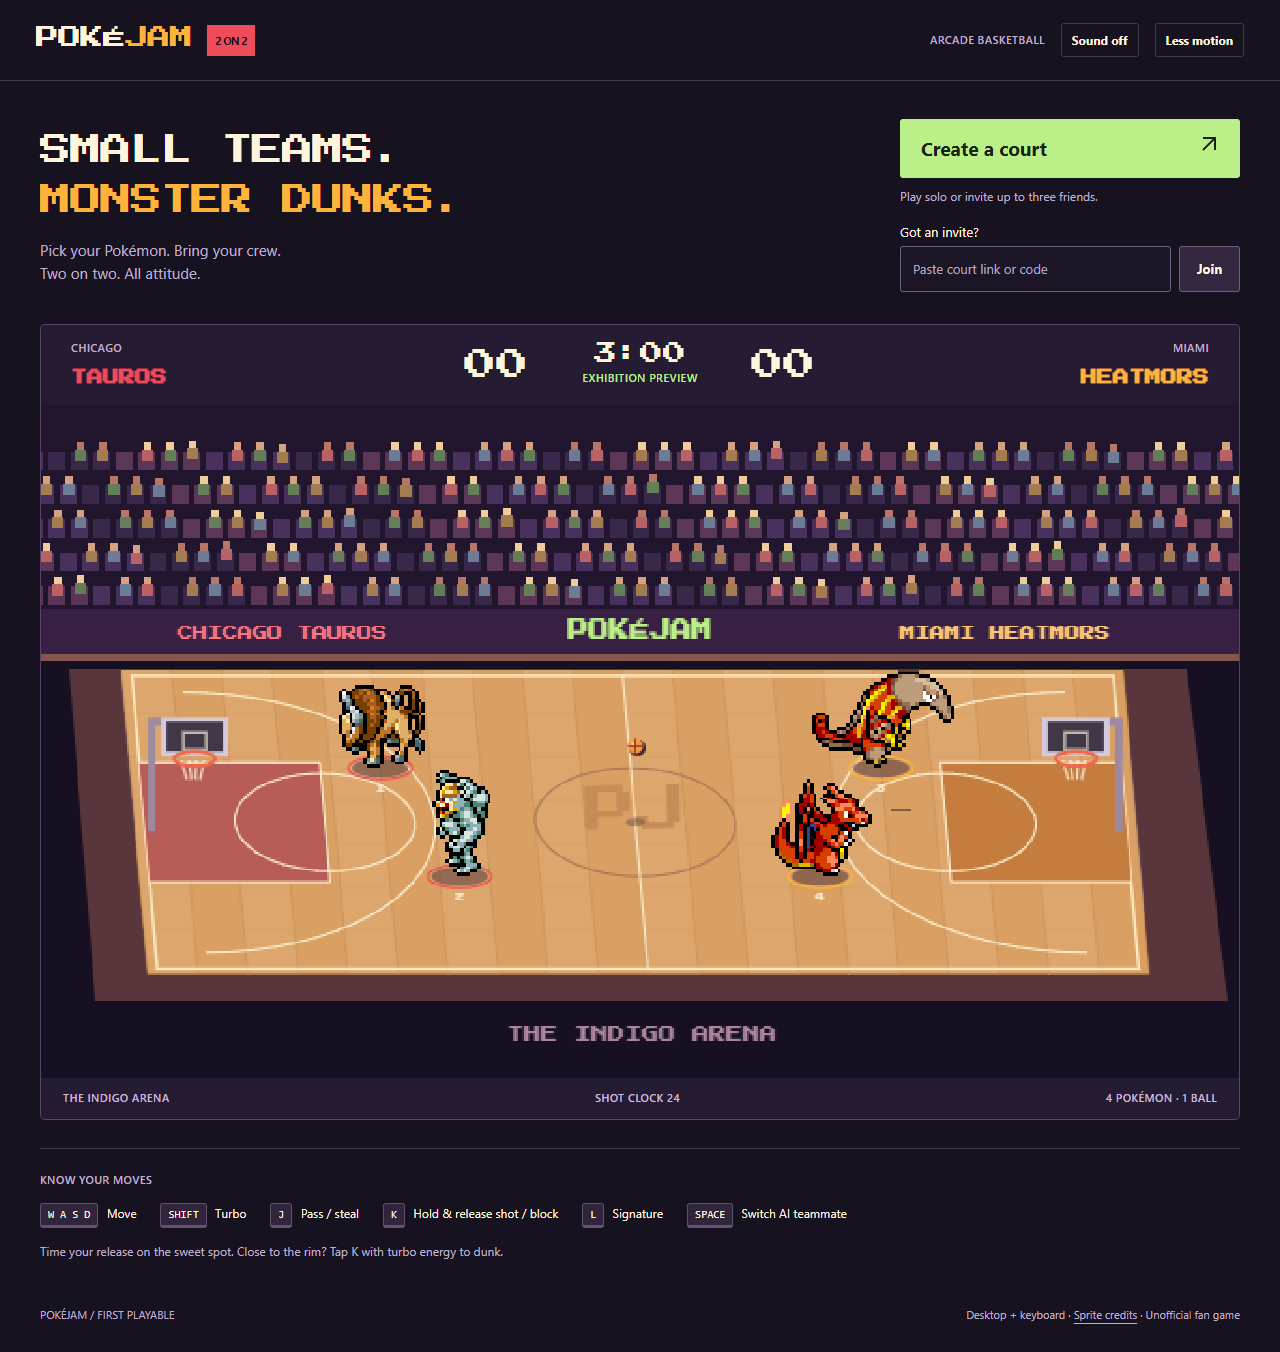
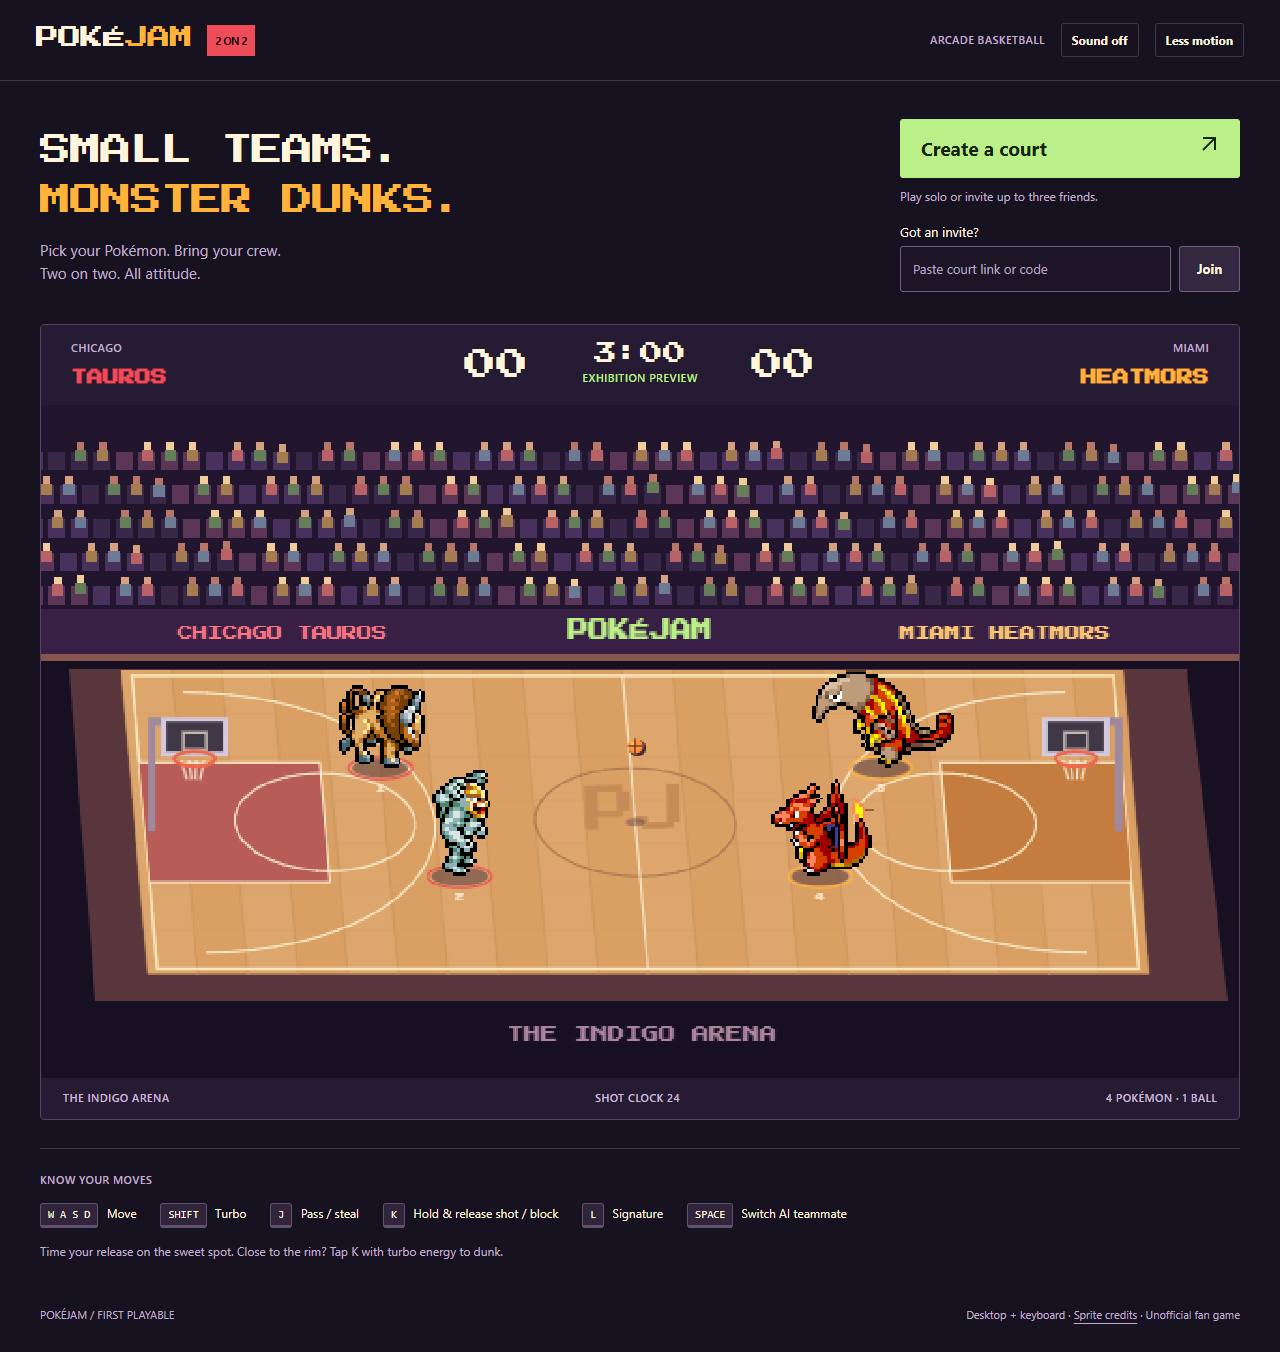
fix: correct turbo dash direction and room exit

Changed region(s): [[0.5938, 0.497, 0.75, 0.6524], [0.25, 0.497, 0.3438, 0.5902], [0.3438, 0.5592, 0.4062, 0.6524]]

diff --git a/public/app.js b/public/app.js
@@ -68,6 +68,12 @@ const moveKeys=['KeyW','KeyA','KeyS','KeyD','ArrowLeft','ArrowRight','ArrowUp','
 window.addEventListener('keydown',e=>{if(document.activeElement!==canvas||!snapshot||(!buttons[e.code]&&!moveKeys.includes(e.code)))return;e.preventDefault();if(!keys.has(e.code))pressed|=buttons[e.code]||0;keys.add(e.code);});
 window.addEventListener('keyup',e=>{if(keys.has(e.code)){released|=buttons[e.code]||0;keys.delete(e.code);e.preventDefault();}});
 window.addEventListener('blur',clearControls);canvas.addEventListener('blur',clearControls);document.addEventListener('visibilitychange',()=>{if(document.hidden)clearControls();});canvas.onclick=()=>canvas.focus();
+document.querySelector('.brand').onclick=e=>{
+ e.preventDefault();++generation;clearTimeout(retryTimer);connected=false;connection?.close();connection=null;
+ session=null;saveSession();joiningRoom=null;snapshot=lobby=null;buffer=[];retry=0;lastFeedback=0;resetPrediction();
+ history.replaceState(null,'','/');document.body.classList.remove('playing');$('intro').hidden=false;$('lobby').hidden=true;$('player-bar').hidden=true;$('match-overlay').hidden=true;$('invite-fallback').hidden=true;
+ $('connection-state').textContent='ARCADE BASKETBALL';$('court-status').textContent='THE INDIGO ARENA';notice('');
+};
 $('create').onclick=()=>{session=null;saveSession();open({type:'create'});notice('Opening your court…');};
 $('join-form').onsubmit=e=>{e.preventDefault();let room=$('room-link').value.trim();try{if(room.includes('://'))room=new URL(room).searchParams.get('room');}catch{room=null;}if(!room||!/^[A-Za-z0-9_-]{16}$/.test(room)){notice('Paste a valid court link or 16-character code.');return;}session=null;saveSession();joiningRoom=room;open({type:'inspect',roomId:room});};
 $('start').onclick=()=>{connection.send({type:'start'});setSoundMuted(muted);};

diff --git a/test/simulation.test.js b/test/simulation.test.js
@@ -110,3 +110,14 @@ test('bot decisions change only decision memory, never authoritative facing or p
  const m=live();m.tick=2;Object.assign(m.players[2],{x:62,y:28,facing:1});const before=structuredClone(m);
  chooseBotInput(m,2);before.players[2].bot=structuredClone(m.players[2].bot);assert.deepEqual(m,before);
 });
+test('holding empty turbo never regenerates boost; releasing restores energy',()=>{
+ const p=createMatch().players[0];p.turbo=0;const start=p.x;
+ for(let i=0;i<60;i++)movePlayer(p,input({x:1,held:A.TURBO}),1/60);
+ assert.ok(Math.abs(p.x-start-p.speed)<1e-8);assert.equal(p.turbo,0);
+ movePlayer(p,input(),1/60);assert.ok(p.turbo>0);
+ const energy=p.turbo;movePlayer(p,input({held:A.TURBO}),1/60);assert.ok(p.turbo<energy,'holding turbo still spends energy while stationary');
+});
+test('Raging Bull follows normalized vertical input and uses facing only from rest',()=>{
+ for(const y of [-1,1]){const m=live(),p=m.players[0];p.meter=100;stepMatch(m,new Map([[0,input({y,pressed:A.SPECIAL})]]));assert.equal(p.power.dx,0);assert.equal(p.power.dy,y);}
+ const m=live(),p=m.players[0];p.meter=100;p.facing=-1;stepMatch(m,new Map([[0,input({pressed:A.SPECIAL})]]));assert.equal(p.power.dx,-1);assert.equal(p.power.dy,0);
+});

diff --git a/public/game/simulation.js b/public/game/simulation.js
@@ -20,8 +20,8 @@ export function createMatch({seed=7}={}){
 }
 export function movePlayer(p,input,dt,players=[]){
  const length=Math.hypot(input.x,input.y),scale=Math.max(1,length);
- const turbo=!!(input.held&A.TURBO)&&p.turbo>0&&length>0;
- p.turbo=clamp(p.turbo+(turbo?-T.turboDrain:T.turboFill)*dt,0,100);
+ const turboHeld=!!(input.held&A.TURBO),turbo=turboHeld&&p.turbo>0&&length>0;
+ p.turbo=clamp(p.turbo+(turboHeld?-T.turboDrain:T.turboFill)*dt,0,100);
  let speed=p.speed*(turbo?1.65:1);
  let dx=input.x/scale,dy=input.y/scale;
  if(p.power?.kind==='dash'){dx=p.power.dx;dy=p.power.dy;speed=p.speed*2;}
@@ -72,7 +72,7 @@ function signature(m,p,input){
  if(p.id!==0&&!owns){emit(m,'feedback',p.id,{text:'Need ball'});return;}
  if(p.power)return;
  p.meter=0;pose(p,'signature',600);emit(m,'signature',p.id,{text:p.move});
- if(p.id===0){const n=Math.hypot(input.x,input.y)||1;p.power={kind:'windup',ms:T.dashWindupMs,dx:input.x?input.x/n:p.facing,dy:input.y/n};}
+ if(p.id===0){const n=Math.hypot(input.x,input.y);p.power={kind:'windup',ms:T.dashWindupMs,dx:n?input.x/n:p.facing,dy:n?input.y/n:0};}
  else if(p.id===1)pass(m,p,T.passSpeed*T.bulletMultiplier);
  else p.power={kind:p.id===2?'heat':'sky',ms:T.powerMs};
 }

diff --git a/docs/verification/first-playable.md b/docs/verification/first-playable.md
@@ -1,6 +1,6 @@
 # First-playable verification — 2026-10-12
 
-Status: local build and browser acceptance checks pass; independent review pending. Internet acceptance remains open.
+Status: local build and browser acceptance checks pass. Independent whole-branch review completed; all three Important findings fixed with failing-then-passing regressions. Internet acceptance remains open.
 
 ## Environment
 
@@ -8,7 +8,7 @@ Windows, Node 24.14.0, npm 11.9.0, Microsoft Edge 155.0.4283.45 in headless Play
 
 ## Executed evidence
 
-- `npm test`: 26 checks passing across source-asset bounds/provenance, real simulation, AI-only seeded matches, rooms, and a real HTTP/WebSocket server. Covers once-only scoring, misses/rebounds, pass interception, steals, blockable dunks/buzzer shots, overtime, shot-clock/out-of-bounds turnovers, all four signatures, neutral input cancel, human/reserved-slot protection, token rotation, capacity/rate limits, 250 ms stale input, and 60/120-second expiry with an injected clock.
+- `npm test`: **28 checks passing** after review fixes across source-asset bounds/provenance, real simulation, AI-only seeded matches, rooms, and a real HTTP/WebSocket server. Covers once-only scoring, misses/rebounds, pass interception, steals, blockable dunks/buzzer shots, overtime, shot-clock/out-of-bounds turnovers, all four signatures, neutral input cancel, human/reserved-slot protection, token rotation, capacity/rate limits, 250 ms stale input, and 60/120-second expiry with an injected clock.
 - `node test/latency.mjs`: four separate WebSocket clients completed a real-time match with **75 ms delay each direction**. Final **53–48**; **4,547 common authoritative ticks**, identical score, ball holder, and phase at each. No protocol errors. Scripted inputs use normal controls, never scores or positions.
 - `node test/recovery.mjs`: two independent browser contexts shared a team against two AI players at 150 ms simulated RTT; a live late join remained pending until stoppage, then took its reserved slot. Movement was acknowledged. Duplicate-tab token reclaimed the same player and returned the old tab to recovery. Restarting the actual Node service returned the browser to “Room ended” with Create court available. Zero uncaught browser errors.
 - `node test/browser.mjs`: home/create/join, malformed invite, four separate human slots, human teammate protection, sound/motion controls, focus loss while moving with turbo, automatic reconnect, and missing-art fallback passed. A real-time solo match finished **57–41**, displayed results, and returned to a clean **0–0** rematch countdown. Zero uncaught browser errors.
@@ -18,7 +18,7 @@ Windows, Node 24.14.0, npm 11.9.0, Microsoft Edge 155.0.4283.45 in headless Play
 
 ## Presentation evidence
 
-[Home](home.png), [lobby](lobby.png), [match](match.png), [results](results.png), [small viewport](small.png), [missing-sheet fallback](fallback.png), [delayed co-op](delayed-coop.png), [all-action sprite atlas](animations.png). Journey screenshots preceded the final facing correction; the atlas includes it.
+[Home](home.png), [lobby](lobby.png), [match](match.png), [results](results.png), [small viewport](small.png), [missing-sheet fallback](fallback.png), [delayed co-op](delayed-coop.png), [all-action sprite atlas](animations.png). Home/lobby/match and atlas include the facing correction; other journey captures preceded it.
 
 The court, player rings, scoreboard, controls, and four distinct Pokémon are visible. Existing frame sequences have new basketball timing and independent ball motion. The atlas checks attachment/facing; it does not establish that every pose is polished enough for final art direction. The large sprites can overlap in crowded play.
 
@@ -36,5 +36,21 @@ The court, player rings, scoreboard, controls, and four distinct Pokémon are vi
 - Manual ignored git worktree after managed creation could not resolve the non-repository task parent; cost: manual cleanup when integration is chosen.
 - Reused compatible multi-frame sprite poses with new timing and anchors; cost: bespoke basketball poses may improve readability later.
 - Reused approved native implementation plan and arcade brief without reopening visual-direction questions; cost: visual choices remain subject to user playtest.
+- Internet deployment stays pending because no destination or separate-network endpoints are authorized/available; cost: real-network failures may remain undiscovered.
+- Container execution stays unverified because Docker is unavailable; cost: platform/runtime deployment issues may remain undiscovered.
+- Audible output and subjective responsiveness stay pending human playtest; cost: sound balance and shot timing may need tuning.
+- Browser coverage stays Edge-only for this pass; cost: other engines may have compatibility differences.
+
+## Independent review and final fix pass
+
+Fresh-context reviewer inspected the complete branch, ran the 26-check suite, and reproduced three Important issues. All three were fixed in one pass:
+
+1. Empty turbo regenerated on alternating held ticks, granting unlimited extra speed. A sustained empty-meter regression failed, then passed after recharge was restricted to released turbo.
+2. Pure vertical Raging Bull incorrectly substituted horizontal facing. Up/down/neutral-direction regressions failed, then passed with vector normalization and a neutral-only facing fallback.
+3. Home immediately restored the room it was supposed to leave. `node test/exit.mjs` failed, then passed after Home cleared memory/storage, cancelled retry, closed the socket, and restored entry UI. Ordinary reload still restores the room; a new court gets a new ID; exit also works during live play.
+
+The final suite passed 28/28. Long browser/latency matches were executed before these focused review fixes; seeded complete-match checks and affected browser exit behavior were rerun afterward. No second reviewer was dispatched.
+
+Deferred minors: full-room inspection still says to choose an available Pokémon while all slots are disabled (Home now works as the return action); imported `assets/fonts/OFL.txt:21` retains upstream trailing whitespace. Working-diff whitespace checks pass; whole-branch `git diff --check` flags that single license line. Original license text was preserved.
 
 See the approved [design](../superpowers/specs/2026-10-12-pokejam-design.md) and [plan](../superpowers/plans/2026-10-12-pokejam.md). This record distinguishes implemented local behavior from pending internet acceptance.
